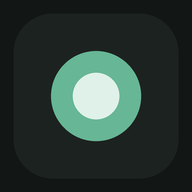
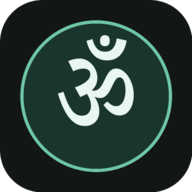
Add Om identity, every-food pause and speaking bell

diff --git a/index.html b/index.html
@@ -133,7 +133,7 @@ nav.tabs{grid-template-columns:repeat(5,1fr)}nav.tabs button{min-width:64px}nav.
 <body>
 <div id="setup"><div class="inner"></div></div>
 <div class="wrap">
-<h1><img src="prakash-icon-192.png" alt="" width="32" height="32" style="border-radius:8px;vertical-align:-6px;margin-right:9px">Prakash</h1>
+<h1><img src="prakash-icon-192.png" alt="Om" width="32" height="32" style="border-radius:8px;vertical-align:-6px;margin-right:9px">Prakash</h1>
 <p class="tag">Your day, clearly.</p>
 <nav class="tabs" id="tabs">
 <button data-tab="today" class="on">Today</button>
@@ -239,6 +239,7 @@ if(!state.walkTimer) state.walkTimer={startedAt:null};
 if(!state.meditationTimer) state.meditationTimer={startedAt:null};
 if(!state.sleepTimer) state.sleepTimer={startedAt:null};
 if(!Array.isArray(state.foodFavourites)) state.foodFavourites=[];
+if(!Array.isArray(state.speakingNotices)) state.speakingNotices=[];
 function save(){ try{ localStorage.setItem(KEY, JSON.stringify(state)); }catch(e){ toast('Storage is full. Export a backup and delete old photos.'); } }
 function todayKey(d){ d=d||new Date(); const m=String(d.getMonth()+1).padStart(2,'0'); const day=String(d.getDate()).padStart(2,'0'); return d.getFullYear()+'-'+m+'-'+day; }
 function fmtDate(key){ const p=key.split('-'); const M=['Jan','Feb','Mar','Apr','May','Jun','Jul','Aug','Sep','Oct','Nov','Dec']; return parseInt(p[2],10)+' '+(M[parseInt(p[1],10)-1]||''); }
@@ -253,6 +254,7 @@ function bindWeek(sec,rerender){ const strip=sec.querySelector('#week-strip'); i
 function switchTab(name){ const b=document.querySelector(`nav.tabs button[data-tab="${name}"]`); if(b)b.click(); }
 function closeSheet(){const x=document.querySelector('.sheet-back');if(x)x.remove()}
 function openSheet(html,bind){closeSheet();const back=document.createElement('div');back.className='sheet-back';back.innerHTML=`<div class="sheet"><button class="btn" data-close style="float:right">Done</button>${html}</div>`;document.body.appendChild(back);back.onclick=e=>{if(e.target===back||e.target.closest('[data-close]'))closeSheet()};if(bind)bind(back.querySelector('.sheet'));}
+function foodAwareness(onContinue){openCeremony('Eating','One breath before this is logged. Let the first bite be fully tasted.','',onContinue,'Continue to log');}
 function openCeremony(title,line,prayer,onContinue,label){openSheet(`<h2>${esc(title)}</h2><p class="journal-prompt">One breath. ${esc(line)}</p>${prayer?'<p class="note" style="white-space:pre-line">'+esc(prayer)+'</p>':''}<div class="qr"><button class="btn primary" id="ceremony-continue">${esc(label||'Continue')}</button><button class="btn" id="ceremony-skip">Skip</button></div>`,sheet=>{const go=()=>{closeSheet();onContinue()};sheet.querySelector('#ceremony-continue').onclick=go;sheet.querySelector('#ceremony-skip').onclick=go;});}
 
 
@@ -634,8 +636,8 @@ TAB_RENDER.food = function(){
   const qa=s=>sec.querySelectorAll(s);
   bindWeek(sec,TAB_RENDER.food);
   qa('[data-daynav]').forEach(b=>b.onclick=()=>{viewDate=addDaysKey(viewDate,Number(b.dataset.daynav));weekOffset=0;TAB_RENDER.food();});
-  qa('[data-quickfood]').forEach(b=>b.onclick=()=>{const f=quickFoods[Number(b.dataset.quickfood)];if(!f)return;d.foods.push({...f,id:uid(),ts:Date.now(),slot:f.slot||slot,snack:(f.slot||slot)==='snack',source:f._quick==='Favourite'?'Favourite reuse':'Recent reuse'});save();TAB_RENDER.food();toast('Added '+f.name+'.');});
-  const repeatMeal=sl=>{const prev=state.days[addDaysKey(k,-1)],items=prev?(prev.foods||[]).filter(f=>(f.slot||(f.snack?'snack':''))===sl):[];if(!items.length){toast('No matching meal on the previous day.');return;}items.forEach(f=>d.foods.push({...f,id:uid(),ts:Date.now(),source:'Repeated from previous day'}));save();TAB_RENDER.food();toast('Previous meal repeated.');};
+  qa('[data-quickfood]').forEach(b=>b.onclick=()=>{const f=quickFoods[Number(b.dataset.quickfood)];if(!f)return;foodAwareness(()=>{d.foods.push({...f,id:uid(),ts:Date.now(),slot:f.slot||slot,snack:(f.slot||slot)==='snack',source:f._quick==='Favourite'?'Favourite reuse':'Recent reuse'});save();TAB_RENDER.food();toast('Added '+f.name+'.');});});
+  const repeatMeal=sl=>{const prev=state.days[addDaysKey(k,-1)],items=prev?(prev.foods||[]).filter(f=>(f.slot||(f.snack?'snack':''))===sl):[];if(!items.length){toast('No matching meal on the previous day.');return;}foodAwareness(()=>{items.forEach(f=>d.foods.push({...f,id:uid(),ts:Date.now(),source:'Repeated from previous day'}));save();TAB_RENDER.food();toast('Previous meal repeated.');});};
   qa('[data-repeatmeal]').forEach(b=>b.onclick=e=>{e.stopPropagation();repeatMeal(b.dataset.repeatmeal)});
   qa('[data-meal]').forEach(h=>{ let sx=0; h.addEventListener('touchstart',e=>sx=e.changedTouches[0].clientX,{passive:true}); h.addEventListener('touchend',e=>{ if(e.changedTouches[0].clientX-sx<65)return; repeatMeal(h.dataset.meal); },{passive:true}); });
   if(q('#f-start')) q('#f-start').onclick=()=>{ foodStage='pause'; TAB_RENDER.food(); };
@@ -644,7 +646,7 @@ TAB_RENDER.food = function(){
   qa('[data-foodact]').forEach(b=>b.onclick=()=>{ const f=d.foods.find(x=>x.id===b.dataset.foodact); if(!f)return; openSheet(`<h2>${esc(f.name)}</h2><p class="quiet">Move, edit or remove this entry.</p><label class="label">Meal</label><select class="input" id="sh-slot"><option value="breakfast">Breakfast</option><option value="lunch">Lunch</option><option value="dinner">Dinner</option><option value="snack">Snacks</option></select><button class="btn primary-action" id="sh-move">Move to selected meal</button><button class="btn primary-action" id="sh-tom">Move to tomorrow</button><button class="btn" id="sh-edit">Edit details</button><button class="btn" id="sh-favourite">${state.foodFavourites.some(x=>x.name===f.name&&x.kcal===f.kcal)?'Remove favourite':'Add to favourites'}</button><button class="btn danger" id="sh-remove">Remove</button>`, box=>{const sel=box.querySelector('#sh-slot');sel.value=f.slot||(f.snack?'snack':'');box.querySelector('#sh-move').onclick=()=>{f.slot=sel.value;f.snack=sel.value==='snack';if(!f.snack)f.trigger='';save();closeSheet();TAB_RENDER.food();toast('Moved.');};box.querySelector('#sh-tom').onclick=()=>{const ix=d.foods.findIndex(x=>x.id===f.id),nk=addDaysKey(k,1);dayOf(nk).foods.push(d.foods.splice(ix,1)[0]);save();closeSheet();TAB_RENDER.food();toast('Moved to tomorrow.');};box.querySelector('#sh-edit').onclick=()=>{editId=f.id;closeSheet();TAB_RENDER.food();};box.querySelector('#sh-favourite').onclick=()=>{const ix=state.foodFavourites.findIndex(x=>x.name===f.name&&x.kcal===f.kcal);if(ix>=0){state.foodFavourites.splice(ix,1);toast('Removed from favourites.')}else{const keep={...f,id:uid(),source:f.source||'Saved favourite'};state.foodFavourites.push(keep);toast('Added to favourites.')}save();closeSheet();TAB_RENDER.food();};box.querySelector('#sh-remove').onclick=()=>{d.foods=d.foods.filter(x=>x.id!==f.id);save();closeSheet();TAB_RENDER.food();};}); });
   qa('[data-move]').forEach(sel=>sel.onchange=()=>{ const f=d.foods.find(x=>x.id===sel.dataset.move); if(!f)return; f.slot=sel.value; f.snack=sel.value==='snack'; if(!f.snack) f.trigger=''; save(); TAB_RENDER.food(); toast('Moved to '+sel.options[sel.selectedIndex].text+'.'); });
   qa('[data-moveday]').forEach(b=>b.onclick=()=>{ const ix=d.foods.findIndex(x=>x.id===b.dataset.moveday); if(ix<0)return; const f=d.foods.splice(ix,1)[0], nk=addDaysKey(k,1), nd=dayOf(nk); f.ts=dateFromKey(nk).setHours(12,0,0,0); nd.foods.push(f); save(); TAB_RENDER.food(); toast('Moved to tomorrow.'); });
-  qa('[data-copytomorrow]').forEach(b=>b.onclick=e=>{ e.stopPropagation(); const sl=b.dataset.copytomorrow, items=d.foods.filter(f=>(f.slot||(f.snack?'snack':''))===sl); if(!items.length){toast('Nothing in this meal to copy.');return;} const nk=addDaysKey(k,1), nd=dayOf(nk); items.forEach(f=>nd.foods.push({...f,id:uid(),ts:dateFromKey(nk).setHours(12,0,0,0)})); save(); toast('Meal copied to tomorrow.'); });
+  qa('[data-copytomorrow]').forEach(b=>b.onclick=e=>{e.stopPropagation();const sl=b.dataset.copytomorrow,items=d.foods.filter(f=>(f.slot||(f.snack?'snack':''))===sl);if(!items.length){toast('Nothing in this meal to copy.');return;}foodAwareness(()=>{const nk=addDaysKey(k,1),nd=dayOf(nk);items.forEach(f=>nd.foods.push({...f,id:uid(),ts:dateFromKey(nk).setHours(12,0,0,0),source:'Copied by you'}));save();TAB_RENDER.food();toast('Meal copied to tomorrow.');});});
   qa('[data-ft]').forEach(b=>b.onclick=()=>{ if(b.dataset.ft!=='scan') stopScan(); foodTab=b.dataset.ft; pick=null; TAB_RENDER.food(); });
   qa('[data-staple]').forEach(b=>b.onclick=()=>{ const s=STAPLES[parseInt(b.dataset.staple,10)]; const dg=s[0].indexOf('scoop')>=0?'30':'100';
     pick={name:s[0],kcal100:s[1],prot100:s[2],fat100:s[3],carb100:s[4],per:s[5],defGrams:dg,qty:dg,mode:'w'};
@@ -657,7 +659,7 @@ TAB_RENDER.food = function(){
   if(q('#w-evadd')) q('#w-evadd').onclick=()=>{ const n=q('#w-evn').value.trim(), dtv=q('#w-evd').value, ex=parseInt(q('#w-eve').value,10); if(!n||!dtv||!(ex>0)){ toast('Name, date and expected extra are needed.'); return; } (state.events||(state.events=[])).push({id:uid(),name:n,date:dtv,extra:ex}); save(); TAB_RENDER.food(); toast('Event added.'); };
   qa('[data-evdel]').forEach(b=>b.onclick=()=>{ state.events=(state.events||[]).filter(x=>x.id!==b.dataset.evdel); save(); TAB_RENDER.food(); });
   qa('[data-tr]').forEach(b=>b.onclick=()=>{ trigger=b.dataset.tr; TAB_RENDER.food(); });
-  function addEntry(name,kcal,prot,fat,carbs,g,fibre,source){ const e={id:uid(),name,grams:g,kcal:Math.round(kcal),protein:Math.round(prot*10)/10,snack:slot==='snack',slot,trigger:slot==='snack'?trigger:'',ts:Date.now(),source:source||'not recorded'}; if(isFinite(fat)) e.fat=Math.round(fat*10)/10; if(isFinite(carbs)) e.carbs=Math.round(carbs*10)/10; if(isFinite(fibre)) e.fibre=Math.round(fibre*10)/10; d.foods.push(e); save(); pick=null; TAB_RENDER.food(); toast('Logged.'); }
+  function addEntry(name,kcal,prot,fat,carbs,g,fibre,source){foodAwareness(()=>{const e={id:uid(),name,grams:g,kcal:Math.round(kcal),protein:Math.round(prot*10)/10,snack:slot==='snack',slot,trigger:slot==='snack'?trigger:'',ts:Date.now(),source:source||'not recorded'};if(isFinite(fat))e.fat=Math.round(fat*10)/10;if(isFinite(carbs))e.carbs=Math.round(carbs*10)/10;if(isFinite(fibre))e.fibre=Math.round(fibre*10)/10;d.foods.push(e);save();pick=null;TAB_RENDER.food();toast('Logged.');});}
   if(q('#f-addg')) q('#f-addg').onclick=()=>{ if(!pick) return; pick.qty=q('#f-grams').value; const g=pickGrams(); if(g<=0) return;
     const g10=Math.round(g*10)/10;
     const suffix=pick.mode==='s'&&pick.serveGrams?(' ('+pick.qty+' x '+pick.serveLabel+')'):(Math.abs(g-100)>0.001?' ('+g10+' g)':'');
@@ -790,7 +792,7 @@ TAB_RENDER.food = function(){
     if(isFinite(ec)) f.carbs=Math.round(ec*10)/10; else delete f.carbs;
     if(isFinite(eb)) f.fibre=Math.round(eb*10)/10; else delete f.fibre;
     save(); editId=null; TAB_RENDER.food(); toast('Updated.'); };
-  qa('[data-copyday]').forEach(b=>b.onclick=()=>{ const srcDay=state.days[b.dataset.copyday]; if(!srcDay) return; for(const f of srcDay.foods){ d.foods.push(Object.assign({}, f, {id:uid(), ts:Date.now()})); } save(); TAB_RENDER.food(); toast('Copied '+srcDay.foods.length+' item'+(srcDay.foods.length>1?'s':'')+' to today.'); });
+  qa('[data-copyday]').forEach(b=>b.onclick=()=>{const srcDay=state.days[b.dataset.copyday];if(!srcDay)return;foodAwareness(()=>{for(const f of srcDay.foods)d.foods.push({...f,id:uid(),ts:Date.now(),source:'Copied from '+b.dataset.copyday});save();TAB_RENDER.food();toast('Copied '+srcDay.foods.length+' item'+(srcDay.foods.length>1?'s':'')+' to today.');});});
   updatePickPreview();
   if(scanLive){ const v=document.getElementById('f-cam'); if(v&&!v.srcObject&&scanStream){ v.srcObject=scanStream; v.play().catch(()=>{}); } }
   if(!scanLive&&scanStream) stopScan();
@@ -1060,6 +1062,7 @@ function tickTimer(){
   const el=document.getElementById('m-timer'); if(el) el.textContent=Math.floor(medLeft/60)+':'+String(medLeft%60).padStart(2,'0');
   const b=document.getElementById('m-start'); if(b) TAB_RENDER.mind();
 }
+function softMindBell(){try{const AC=window.AudioContext||window.webkitAudioContext,ctx=new AC(),o=ctx.createOscillator(),g=ctx.createGain();o.type='sine';o.frequency.value=660;g.gain.setValueAtTime(.001,ctx.currentTime);g.gain.exponentialRampToValueAtTime(.12,ctx.currentTime+.02);g.gain.exponentialRampToValueAtTime(.001,ctx.currentTime+1.1);o.connect(g);g.connect(ctx.destination);o.start();o.stop(ctx.currentTime+1.2);}catch(e){}}
 function renderMindPractice(){
   const k=todayKey(), d=dayOf(k);
   const week=lastDays(7); let wmin=0, wses=0;
@@ -1067,6 +1070,7 @@ function renderMindPractice(){
   const recent=[...state.meditations].slice(-5).reverse();
   const pats=detectPatterns();
   const running=!!medTimer;
+  const speakingToday=state.speakingNotices.filter(x=>todayKey(new Date(x.ts))===k),recentSpeaking=state.speakingNotices.slice(-5).reverse();
   document.getElementById('tab-mind').innerHTML=`
   <h2>Meditation</h2>
   <p class="note">Sit comfortably, spine easy. Watch the breath come and go. When the mind wanders, noticing the wandering is the practice, not a failure.</p>
@@ -1076,9 +1080,10 @@ function renderMindPractice(){
     <div class="fact"><span>All time</span><strong>${state.meditations.length} sits</strong></div>
   </div>
   ${recent.length?`<div class="list">${recent.map(m=>`<div class="row"><span>${fmtDate(m.date)}</span><strong>${m.minutes} min</strong></div>`).join('')}</div>`:''}
+  <div class="card"><h2>Bell of mindfulness</h2><p class="note">Tap when speaking is noticed. The bell acknowledges the moment; nothing is scored.</p><button class="btn primary" id="m-speaking">Ring · noticed speaking</button>${recentSpeaking.length?`<p class="tiny">Recent: ${recentSpeaking.map(x=>new Date(x.ts).toLocaleTimeString('en-GB',{hour:'2-digit',minute:'2-digit'})).join(' · ')}</p>`:''}</div>
   <h2>Truths</h2>
   <p class="note">Only the plain facts you recorded. Nothing inferred.</p>
-  <div class="facts plain-record"><div class="fact"><span>Walked</span><strong>${d.walkMin||0} min</strong></div><div class="fact"><span>Sat</span><strong>${(state.meditations||[]).filter(m=>m.date===viewDate).reduce((a,m)=>a+(Number(m.minutes)||0),0)} min</strong></div><div class="fact"><span>Slept</span><strong>${d.sleep==null?'not recorded':d.sleep+' h'}</strong></div><div class="fact"><span>Ate</span><strong>${(d.foods||[]).length} item${(d.foods||[]).length===1?'':'s'} · ${totals(d).kcal} kcal</strong></div><div class="fact"><span>Weight</span><strong>${(state.weights||[]).find(w=>w.date===viewDate)?.kg!=null?(state.weights||[]).find(w=>w.date===viewDate).kg+' kg':'not recorded'}</strong></div><div class="fact"><span>Blood pressure</span><strong>${(()=>{const b=(state.bloodPressures||[]).find(x=>x.date===viewDate);return b?b.systolic+'/'+b.diastolic+' mmHg':'not recorded'})()}</strong></div></div>
+  <div class="facts plain-record"><div class="fact"><span>Walked</span><strong>${d.walkMin||0} min</strong></div><div class="fact"><span>Sat</span><strong>${(state.meditations||[]).filter(m=>m.date===viewDate).reduce((a,m)=>a+(Number(m.minutes)||0),0)} min</strong></div><div class="fact"><span>Slept</span><strong>${d.sleep==null?'not recorded':d.sleep+' h'}</strong></div><div class="fact"><span>Ate</span><strong>${(d.foods||[]).length} item${(d.foods||[]).length===1?'':'s'} · ${totals(d).kcal} kcal</strong></div><div class="fact"><span>Weight</span><strong>${(state.weights||[]).find(w=>w.date===viewDate)?.kg!=null?(state.weights||[]).find(w=>w.date===viewDate).kg+' kg':'not recorded'}</strong></div><div class="fact"><span>Blood pressure</span><strong>${(()=>{const b=(state.bloodPressures||[]).find(x=>x.date===viewDate);return b?b.systolic+'/'+b.diastolic+' mmHg':'not recorded'})()}</strong></div><div class="fact"><span>Noticed speaking</span><strong>${speakingToday.length} time${speakingToday.length===1?'':'s'}</strong></div></div>
   <h2>Gratitude</h2>
   <p class="note">Three lines before bed. Small things count the most.</p>
   ${[0,1,2].map(i=>`<div class="field"><input class="input" data-grat="${i}" value="${esc(d.gratitude[i]||'')}" placeholder="${i+1}."></div>`).join('')}
@@ -1090,6 +1095,7 @@ function renderMindPractice(){
   const sec=document.getElementById('tab-mind');
   const q=s=>sec.querySelector(s); const qa=s=>sec.querySelectorAll(s);
   let mt=null;const showMeditation=()=>{const el=q('#m-timer');if(!el)return;const sec=state.meditationTimer.startedAt?Math.max(0,Math.floor((Date.now()-new Date(state.meditationTimer.startedAt).getTime())/1000)):0;el.textContent=String(Math.floor(sec/60)).padStart(2,'0')+':'+String(sec%60).padStart(2,'0')};showMeditation();if(state.meditationTimer.startedAt)mt=setInterval(showMeditation,1000);
+  if(q('#m-speaking'))q('#m-speaking').onclick=()=>{state.speakingNotices.push({ts:new Date().toISOString()});save();softMindBell();q('#m-speaking').textContent='Noticed · '+new Date().toLocaleTimeString('en-GB',{hour:'2-digit',minute:'2-digit'});setTimeout(()=>TAB_RENDER.mind(),700);};
   if(q('#m-start'))q('#m-start').onclick=()=>openCeremony('Meditation','The hour needs nothing from you. Sit, breathe, and let what is be seen.','',()=>{state.meditationTimer.startedAt=new Date().toISOString();save();TAB_RENDER.mind();},'Begin');
   if(q('#m-stop'))q('#m-stop').onclick=()=>{const mins=Math.max(1,Math.round((Date.now()-new Date(state.meditationTimer.startedAt).getTime())/60000));state.meditations.push({id:uid(),date:todayKey(),minutes:mins});state.meditationTimer.startedAt=null;save();TAB_RENDER.mind();toast(mins>=60?'The hour is complete.':mins+' minutes logged.');};
   qa('[data-grat]').forEach(inp=>inp.onchange=()=>{ d.gratitude[parseInt(inp.dataset.grat,10)]=inp.value; save(); });
@@ -1281,7 +1287,7 @@ function showSetup(){
     {k:'training',title:'How do you want to train?',note:'Choose your rhythm.',body:`${[[2,'2 strength days'],[3,'3 strength days'],[4,'3 strength + optional recovery day']].map(x=>`<button class="onboard-choice${Number(p.trainingDays||3)===x[0]?' on':''}" data-pick="trainingDays" data-value="${x[0]}">${x[1]}</button>`).join('')}<label class="check"><input type="checkbox" id="ob-bp"${p.bpSafe?' checked':''}><span>Show the blood-pressure-safe lifting and breathwork rules</span></label>`},
     {k:'food',title:'How do you prefer to eat?',note:'Choose what fits.',body:`<label class="check"><input type="checkbox" id="ob-veg"${p.vegetarian!==false?' checked':''}><span>Vegetarian</span></label><label class="check"><input type="checkbox" id="ob-eggfree"${p.eggFree!==false?' checked':''}><span>Egg-free</span></label>`}
   ],st=steps[setupStep];
-  box.innerHTML=`<h1>Prakash</h1><p class="tag">Made for you.</p><div class="onboard-progress">${steps.map((_,i)=>`<i class="${i<=setupStep?'on':''}"></i>`).join('')}</div><p class="tiny">${setupStep+1} of ${steps.length}</p><h2>${st.title}</h2><p class="note">${st.note}</p>${st.body}<div class="qr" style="margin-top:20px">${setupStep?'<button class="btn" id="ob-back">Back</button>':''}<button class="btn primary" id="ob-next">${setupStep===steps.length-1?'Finish':'Continue'}</button></div><button class="btn" id="ob-skip" style="margin-top:10px">Set up later</button>`;
+  box.innerHTML=`<h1><img src="prakash-icon-192.png" alt="Om" width="48" height="48" style="display:block;border-radius:12px;margin-bottom:10px">Prakash</h1><p class="tag">Made for you.</p><div class="onboard-progress">${steps.map((_,i)=>`<i class="${i<=setupStep?'on':''}"></i>`).join('')}</div><p class="tiny">${setupStep+1} of ${steps.length}</p><h2>${st.title}</h2><p class="note">${st.note}</p>${st.body}<div class="qr" style="margin-top:20px">${setupStep?'<button class="btn" id="ob-back">Back</button>':''}<button class="btn primary" id="ob-next">${setupStep===steps.length-1?'Finish':'Continue'}</button></div><button class="btn" id="ob-skip" style="margin-top:10px">Set up later</button>`;
   el.classList.add('open');const q=x=>box.querySelector(x);
   box.querySelectorAll('[data-pick]').forEach(b=>b.onclick=()=>{p[b.dataset.pick]=b.dataset.pick==='trainingDays'?Number(b.dataset.value):b.dataset.value;box.querySelectorAll(`[data-pick="${b.dataset.pick}"]`).forEach(x=>x.classList.toggle('on',x===b));});
   if(q('#ob-back'))q('#ob-back').onclick=()=>{setupStep--;showSetup();};

diff --git a/sw.js b/sw.js
@@ -4,7 +4,7 @@
 // control on next open; the page then reloads itself once (it listens for
 // 'controllerchange') so the new UI shows without clearing anything.
 // Cache cleanup never touches localStorage, so user data survives updates.
-const CACHE='prakash-v48-truths';
+const CACHE='prakash-v49-om-every-bite-bell';
 const ASSETS=['./','./index.html','./manifest.webmanifest','./prakash-favicon.png','./prakash-icon-192.png','./prakash-icon-512.png'];
 self.addEventListener('install',e=>e.waitUntil(caches.open(CACHE).then(c=>c.addAll(ASSETS)).then(()=>self.skipWaiting())));
 self.addEventListener('activate',e=>e.waitUntil(caches.keys().then(ks=>Promise.all(ks.filter(k=>k!==CACHE).map(k=>caches.delete(k)))).then(()=>self.clients.claim())));
